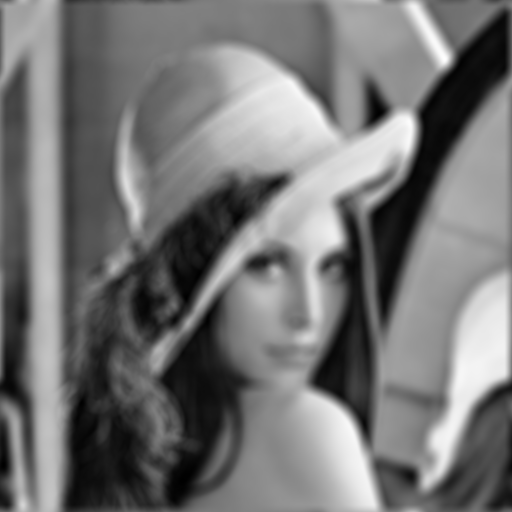
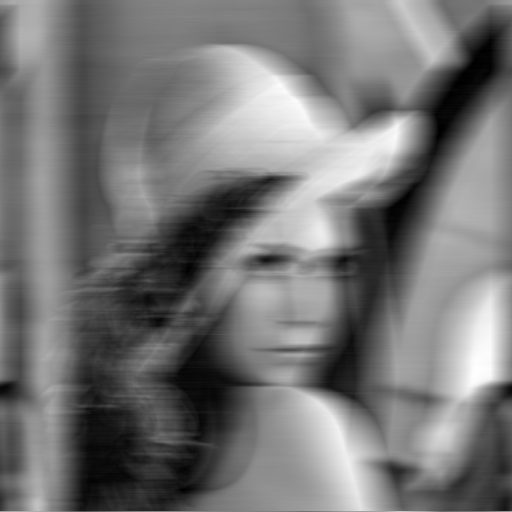
line blur

diff --git a/src/cz/mpelant/dzo/ConvoutionUtils.java b/src/cz/mpelant/dzo/ConvoutionUtils.java
@@ -27,6 +27,8 @@ public class ConvoutionUtils {
 		double[][] result = multiplyComplex(imgc, kernelc);
 		fft.complexInverse(result, true);
 
+		//		result = convertToCplx(extractNormalizedImage(result));
+
 		fft.complexForward(result);
 		double[][] result2;
 		result2 = divideComplex(result, kernelc);
@@ -44,7 +46,7 @@ public class ConvoutionUtils {
 		double[][] imgc = convertToCplx(img);
 		double[][] kernelc = convertToCplx(kernel);
 		normalizeKernel(kernelc);
-
+		// to01(imgc);
 		fft.complexForward(imgc);
 		fft.complexForward(kernelc);
 
@@ -62,6 +64,7 @@ public class ConvoutionUtils {
 		double[][] imgc = convertToCplx(img);
 		double[][] kernelc = convertToCplx(kernel);
 		normalizeKernel(kernelc);
+		// to01(imgc);
 		fft.complexForward(imgc);
 		fft.complexForward(kernelc);
 
@@ -97,6 +100,14 @@ public class ConvoutionUtils {
 			}
 		}
 		return result;
+	}
+
+	private static void to01(double[][] array) {
+		for (int x = 0; x < array.length; x++) {
+			for (int y = 0; y < array[0].length; y++) {
+				array[x][y] /= 256;
+			}
+		}
 	}
 
 	private static ImageWrapper extractImage(double[][] imageCplx) {
@@ -242,7 +253,7 @@ public class ConvoutionUtils {
 		return normImg;
 	}
 
-	private static int[][] normalizeArray(double[][] a, double pMaxValue) {
+	private static int[][] normalizeArray(double[][] a, int pMaxValue) {
 		double minValue = Double.MAX_VALUE;
 		double maxValue = Double.MIN_VALUE;
 

diff --git a/src/cz/mpelant/dzo/Main.java b/src/cz/mpelant/dzo/Main.java
@@ -14,7 +14,7 @@ public class Main {
 	 * @throws IOException
 	 */
 	public static void main(String[] args) throws IOException {
-		String kernelFname = "circle2.png";
+		String kernelFname = "line.png";
 		test2(kernelFname);
 		blurImage(kernelFname);
 		deblurImage(kernelFname);
